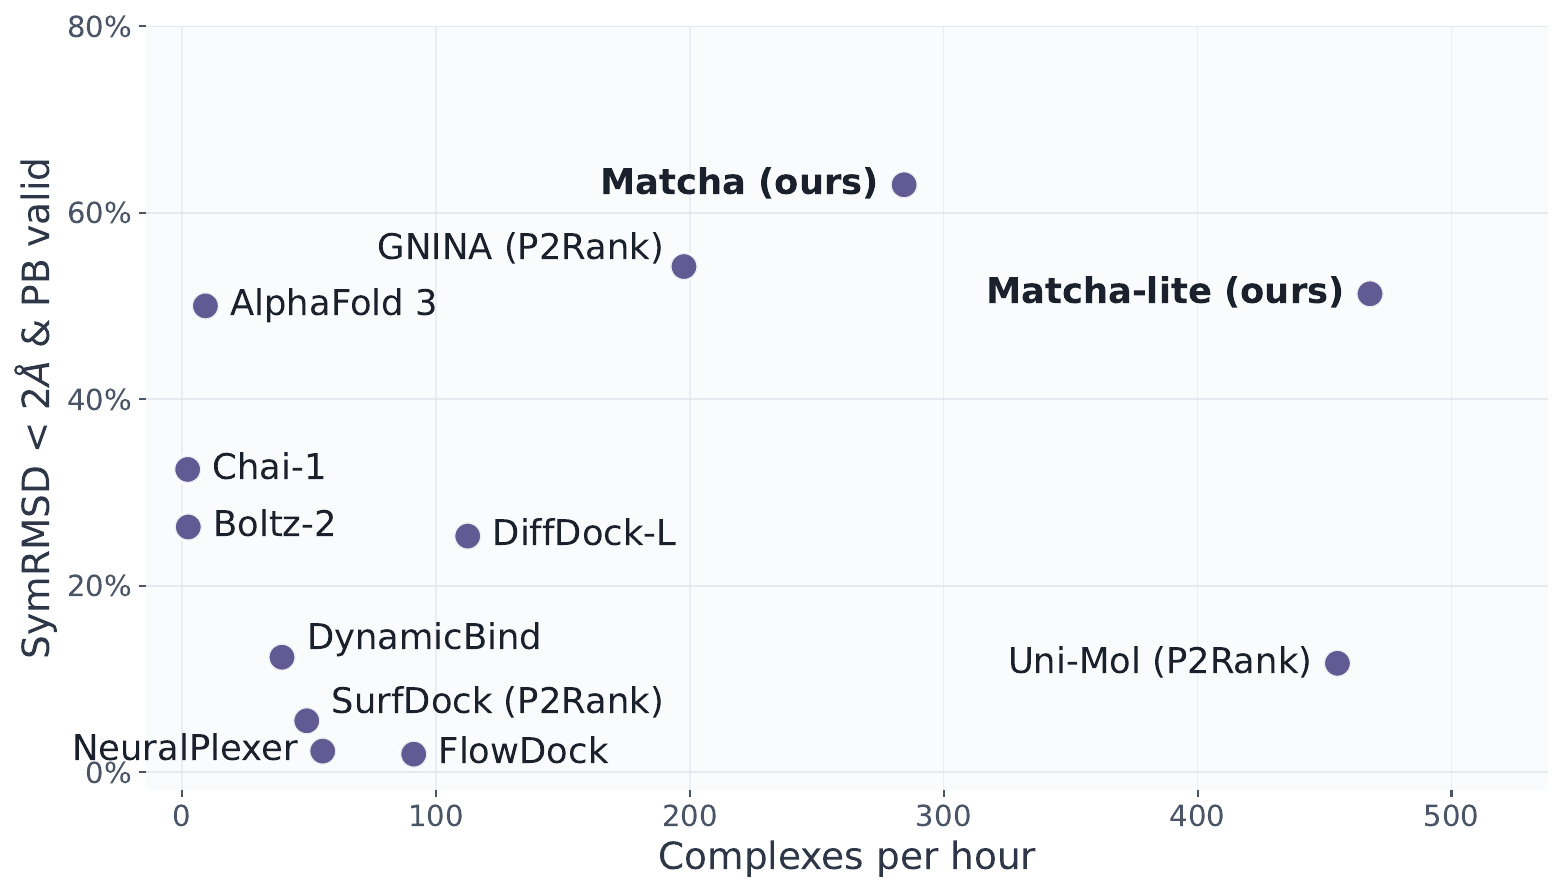
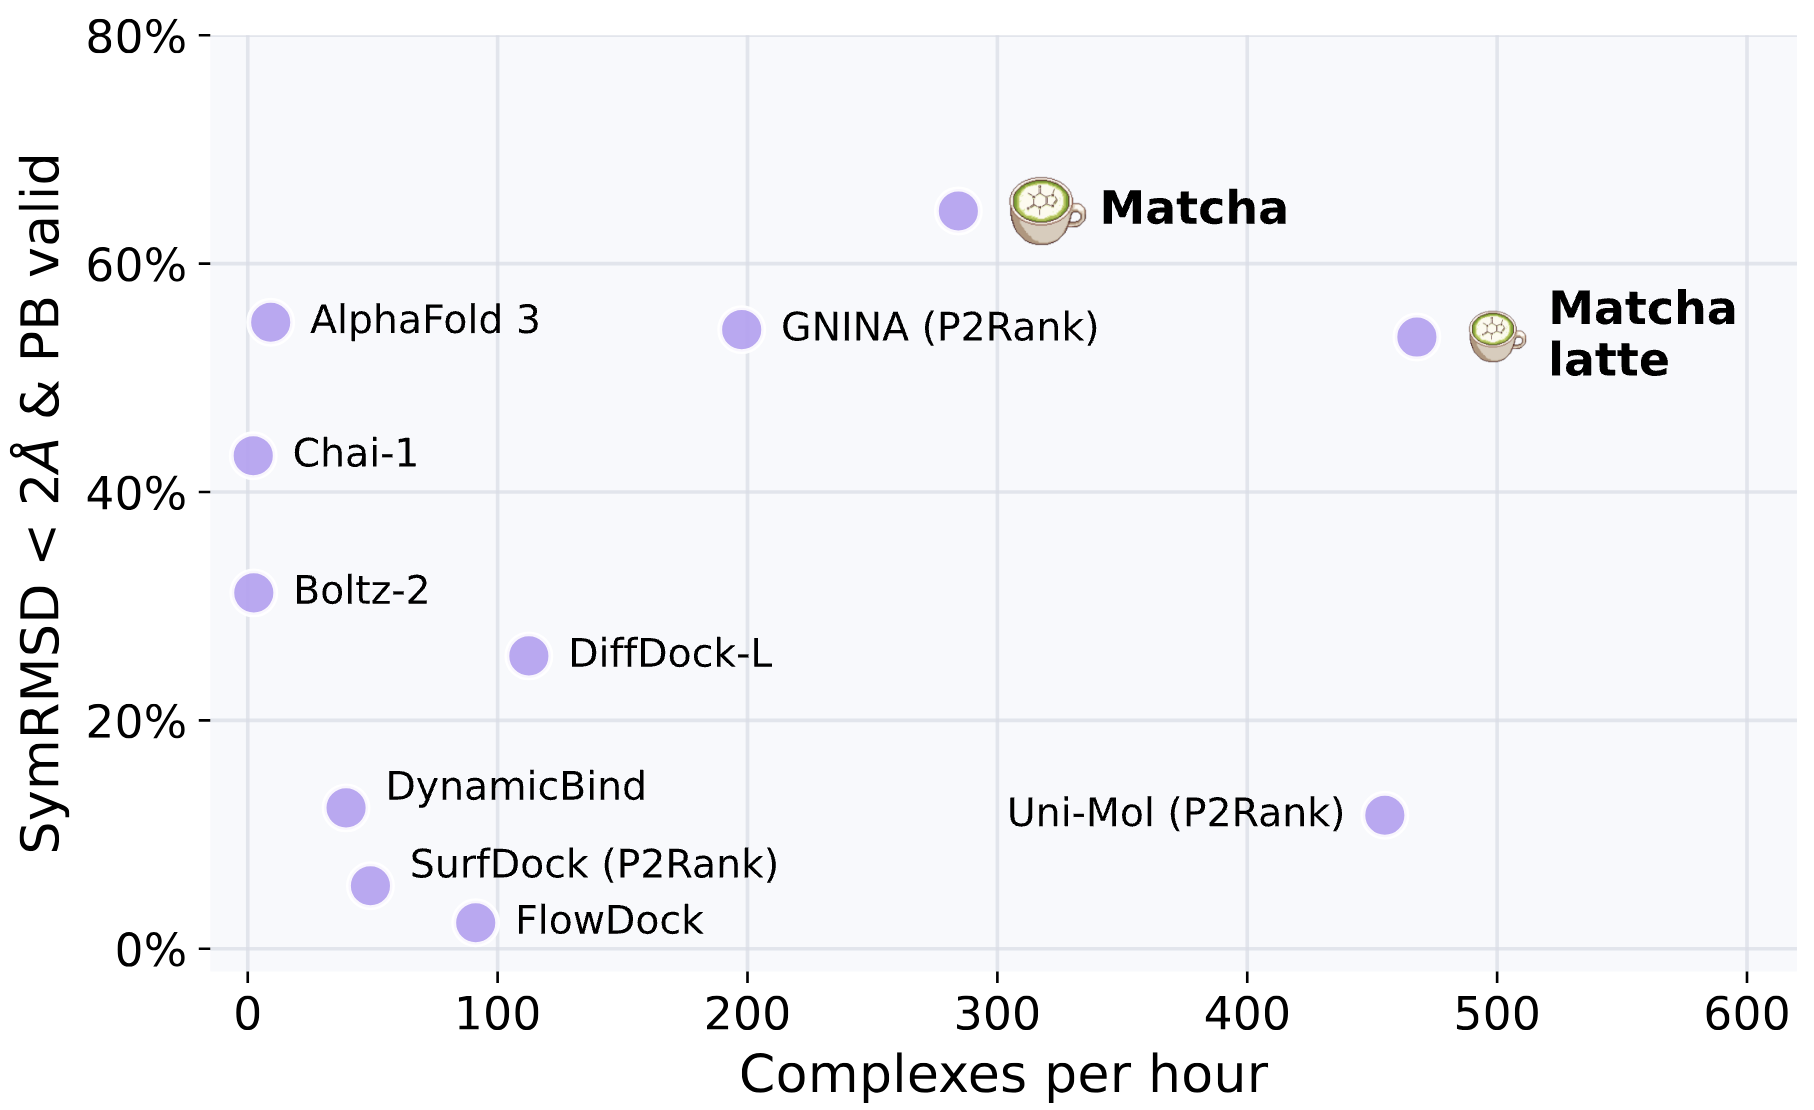
updated README

diff --git a/README.md b/README.md
@@ -15,7 +15,7 @@ Matcha is a molecular docking pipeline that combines multi-stage flow matching w
 ![pipeline](data/img/matcha_pipeline.png)
 ![architecture](data/img/matcha_architecture.png)
 
-Compared to various approaches, Matcha demonstrates superior performance on Astex and PDBBind test sets in terms of docking success rate and physical plausibility. Moreover, our method works approximately 31× faster than modern large-scale co-folding models.
+Compared to various approaches, Matcha demonstrates superior performance on Astex and PDBBind test sets in terms of docking success rate and physical plausibility. Moreover, our method works approximately 28× faster than modern large-scale co-folding models.
 
 <img src="data/img/time.png" alt="results" width="500"/>
 
